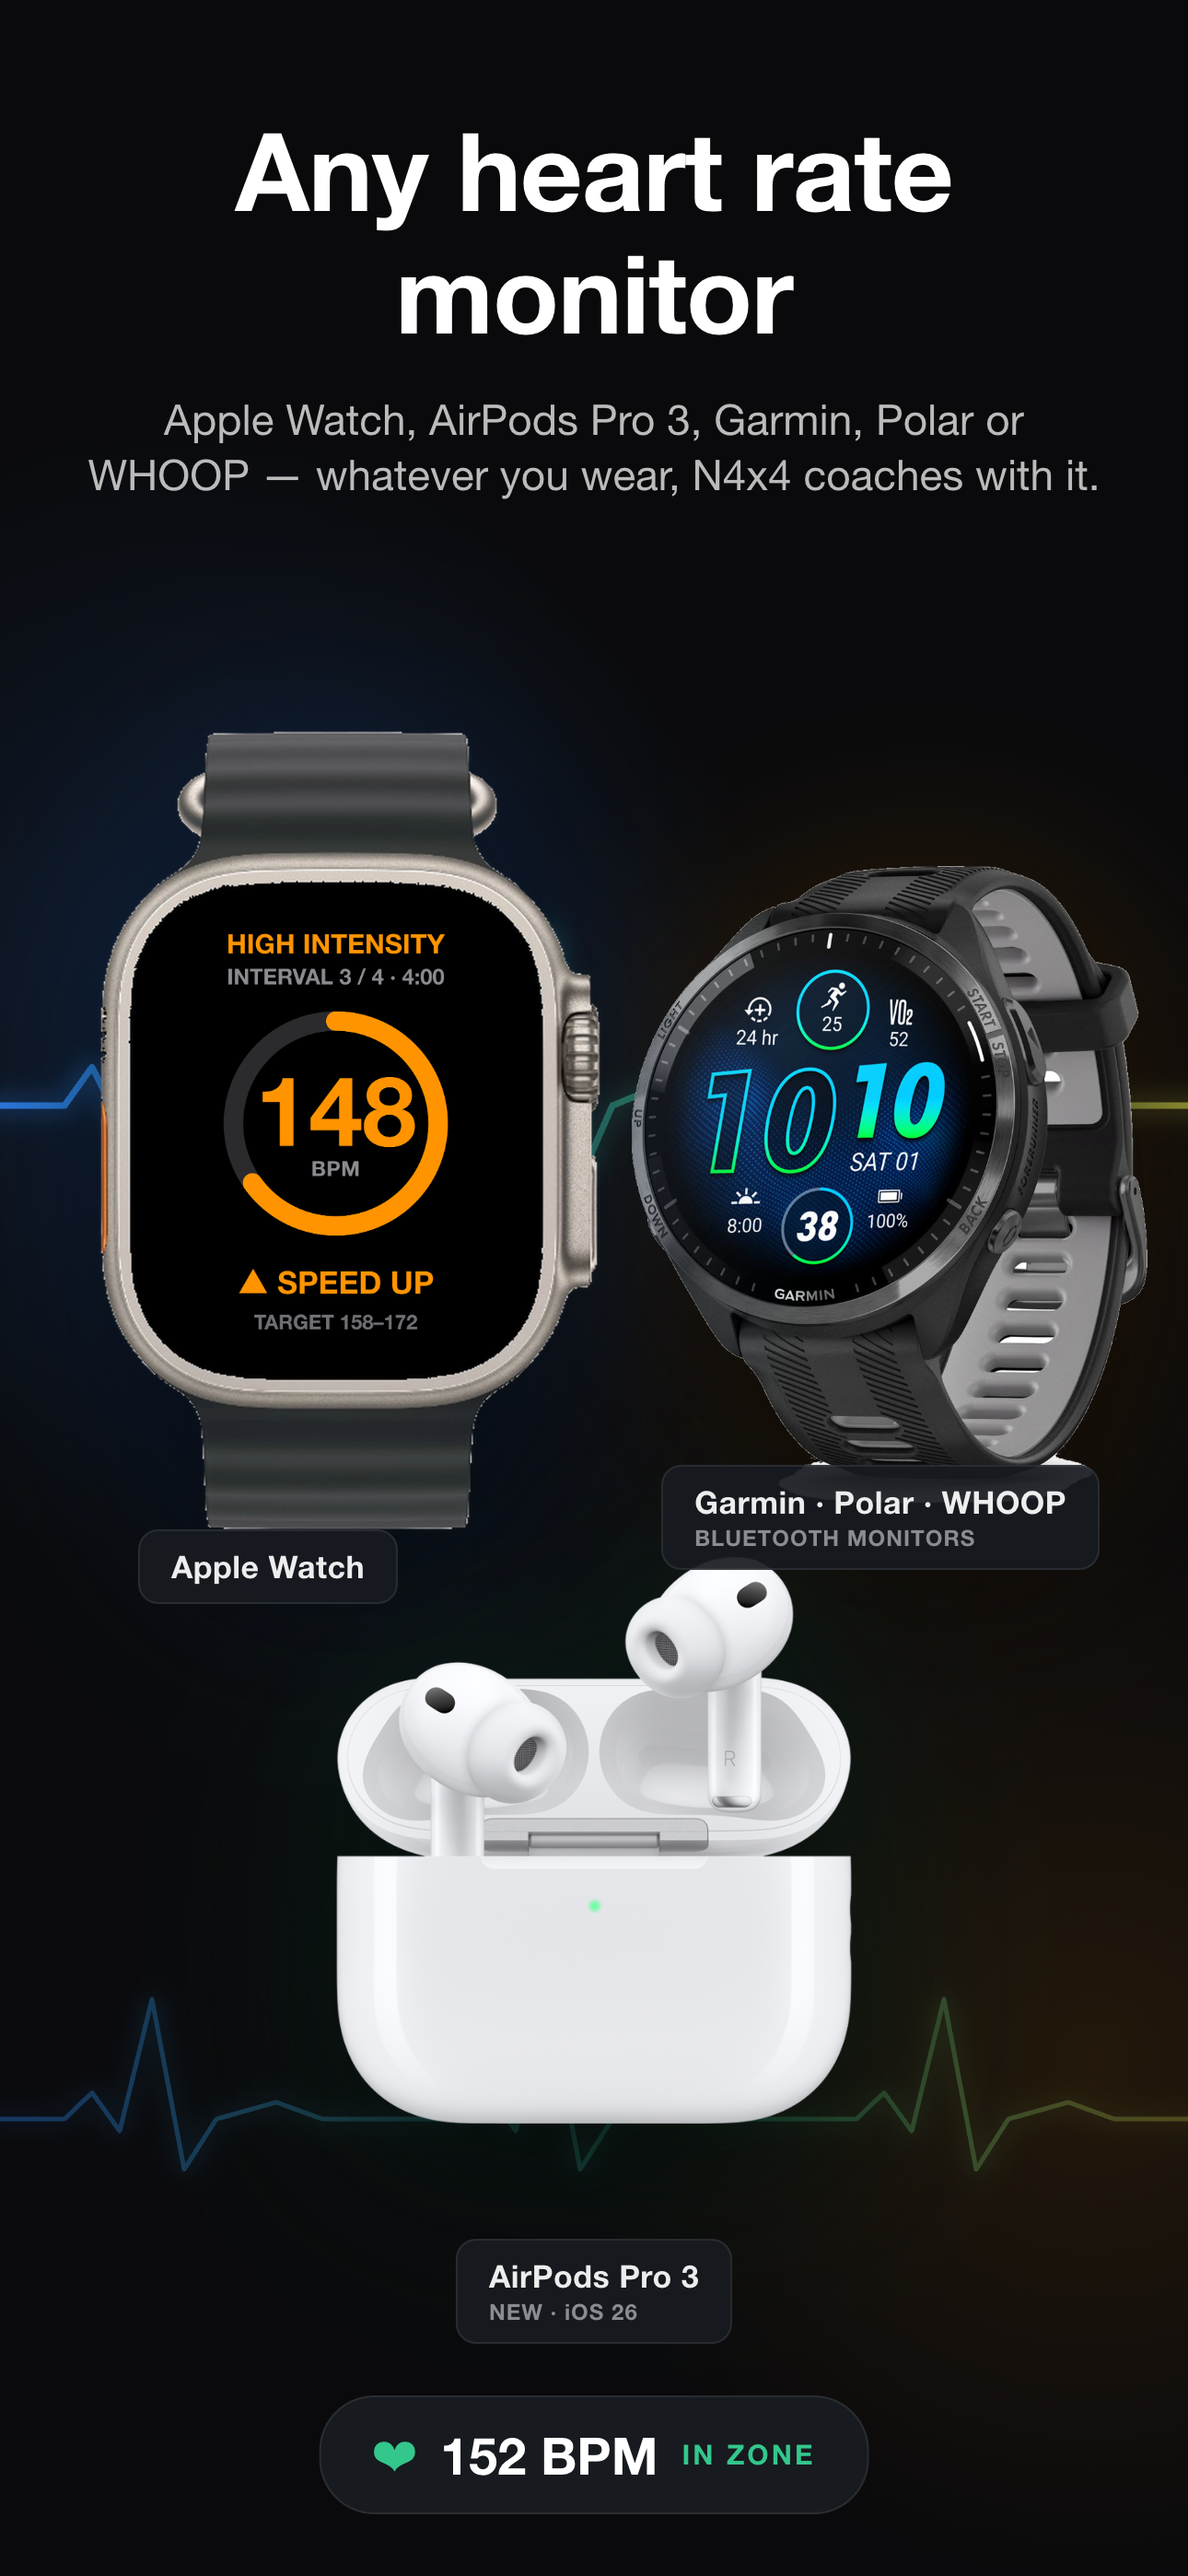
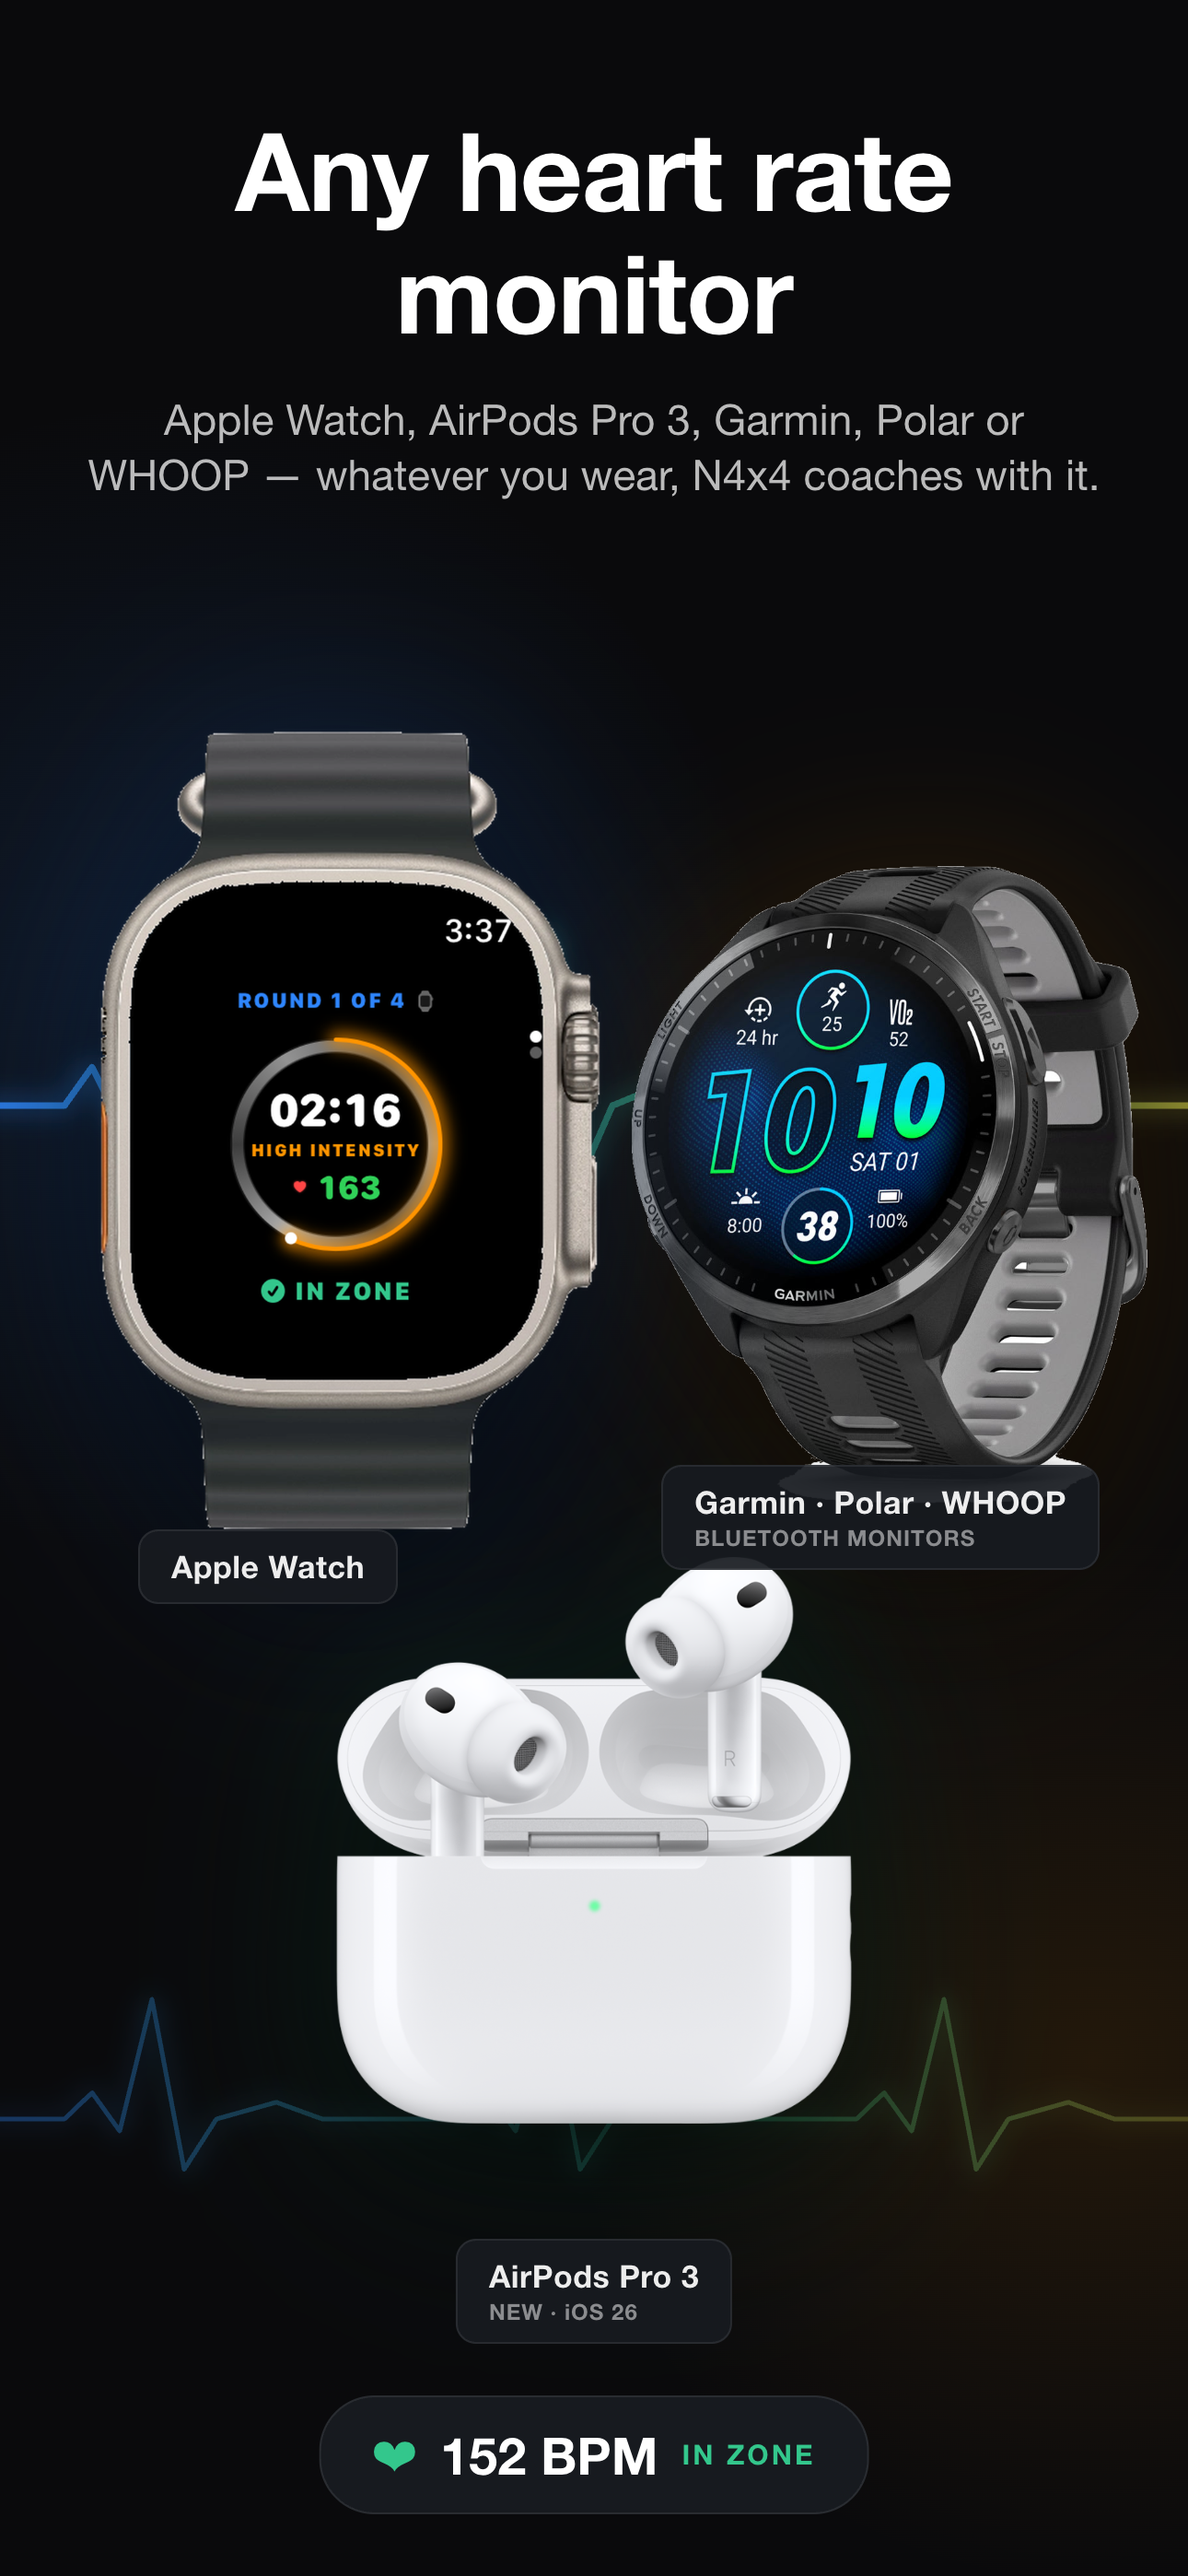
App Store: real Watch screenshots (5.0 UI) for every watch slot; framed card from live capture

Changed region(s): [[0.186, 0.3423, 0.4341, 0.529]]

diff --git a/AppStore/make-watch-store-set.py b/AppStore/make-watch-store-set.py
@@ -1,0 +1,59 @@
+#!/usr/bin/env python3
+"""Build the App Store *Apple Watch* screenshot set from real Simulator captures.
+
+Apple's watch slots take the raw screen only — no device frame, no caption
+text — so this script does exactly three things: fits each capture to the
+accepted slot size (letterboxing on black where the aspect differs by a hair),
+strips the alpha channel, and writes one numbered set per slot.
+
+    python3 AppStore/make-watch-store-set.py <raw-dir>
+
+<raw-dir> holds `<device>-<state>.png` captures from `simctl io screenshot`
+with the app launched via `-demoState <state>` (see AGENTS.md):
+  ultra3-*.png  422×514  (Apple Watch Ultra 3 simulator)  → 410×502 slot
+  s11-46-*.png  416×496  (Series 11 46 mm)                → 416×496 and 396×484 slots
+  se-44-*.png   368×448  (SE 44 mm)                       → 368×448 slot
+
+Requires Pillow.
+"""
+import os, sys
+from PIL import Image
+
+HERE = os.path.dirname(os.path.abspath(__file__))
+OUT = os.path.join(HERE, "watch-screenshots")
+RAW = sys.argv[1] if len(sys.argv) > 1 else os.path.join(HERE, "raw-watch")
+
+# Upload order: the workout face first (it's what the listing leads with).
+SHOTS = [("01-workout", "local"), ("02-home", "offline"),
+         ("03-controls", "controls"), ("04-complete", "localComplete")]
+
+# slot folder → (source device prefix, target size)
+SLOTS = {
+    "ultra-410x502":    ("ultra3", (410, 502)),   # Ultra / Ultra 2 / Ultra 3 — the required upload
+    "series11-416x496": ("s11-46", (416, 496)),   # Series 10 / 11
+    "45mm-396x484":     ("s11-46", (396, 484)),   # Series 7–9
+    "44mm-368x448":     ("se-44",  (368, 448)),   # Series 4–6 / SE
+}
+
+def fit_on_black(img, size):
+    """Scale to fit inside `size`, centre on pure black, no alpha."""
+    tw, th = size
+    img = img.convert("RGB")
+    scale = min(tw / img.width, th / img.height)
+    w, h = round(img.width * scale), round(img.height * scale)
+    img = img.resize((w, h), Image.LANCZOS)
+    canvas = Image.new("RGB", (tw, th), (0, 0, 0))
+    canvas.paste(img, ((tw - w) // 2, (th - h) // 2))
+    return canvas
+
+for folder, (device, size) in SLOTS.items():
+    dest = os.path.join(OUT, folder)
+    os.makedirs(dest, exist_ok=True)
+    for name, state in SHOTS:
+        src = os.path.join(RAW, f"{device}-{state}.png")
+        if not os.path.exists(src):
+            sys.exit(f"missing capture {src}")
+        out = fit_on_black(Image.open(src), size)
+        path = os.path.join(dest, f"{name}.png")
+        out.save(path, optimize=True)
+        print(f"{path}  {out.size[0]}x{out.size[1]}  mode={out.mode}")

diff --git a/AppStore/make-framed-watch.py b/AppStore/make-framed-watch.py
@@ -8,8 +8,15 @@ Fixes two defects in the previous build:
   screen opening.
 
 Approach: flood-fill the transparent screen opening of the frame to get an
-exact mask, clip the freshly rendered face to that mask, then composite the
-frame on top.
+exact mask, clip the face to that mask, then composite the frame on top.
+
+The face is a real Simulator capture when one is given (preferred — the
+advertised watch then IS the shipped UI):
+
+    python3 AppStore/make-framed-watch.py path/to/ultra3-local.png
+
+With no argument it falls back to rendering make-watch-face.html in headless
+Chrome (the pre-5.0 mockup path).
 """
 import os, subprocess, sys, tempfile
 from collections import deque
@@ -57,15 +64,24 @@ bx, by, bx2, by2 = bb
 bw, bh = bx2 - bx, by2 - by
 print(f"opening at {TW}x{TH}: x {bx}-{bx2}, y {by}-{by2} ({bw}x{bh})")
 
-# Render the face at 2x the opening size (scale factor 2 keeps the window above
-# headless Chrome's ~500px minimum, so vw units resolve correctly), then downsample.
-face_png = os.path.join(SCRATCH, "face-render.png")
-subprocess.run([
-    CHROME, "--headless=new", f"--screenshot={face_png}",
-    f"--window-size={bw*2},{bh*2}", "--hide-scrollbars",
-    "--force-device-scale-factor=2", f"file://{FACE_HTML}",
-], check=True, capture_output=True)
-face = Image.open(face_png).convert("RGBA").resize((bw, bh), Image.LANCZOS)
+if len(sys.argv) > 1:
+    # Real capture: scale to COVER the opening (the Ultra opening and the
+    # 422x514 Ultra 3 capture differ in aspect by well under 1%), centre-crop.
+    src = Image.open(sys.argv[1]).convert("RGBA")
+    scale = max(bw / src.width, bh / src.height)
+    sw, sh = round(src.width * scale), round(src.height * scale)
+    src = src.resize((sw, sh), Image.LANCZOS)
+    face = src.crop(((sw - bw) // 2, (sh - bh) // 2, (sw - bw) // 2 + bw, (sh - bh) // 2 + bh))
+else:
+    # Render the face at 2x the opening size (scale factor 2 keeps the window above
+    # headless Chrome's ~500px minimum, so vw units resolve correctly), then downsample.
+    face_png = os.path.join(SCRATCH, "face-render.png")
+    subprocess.run([
+        CHROME, "--headless=new", f"--screenshot={face_png}",
+        f"--window-size={bw*2},{bh*2}", "--hide-scrollbars",
+        "--force-device-scale-factor=2", f"file://{FACE_HTML}",
+    ], check=True, capture_output=True)
+    face = Image.open(face_png).convert("RGBA").resize((bw, bh), Image.LANCZOS)
 
 # Face layer clipped to the exact opening, frame composited on top
 layer = Image.new("RGBA", (TW, TH), (0, 0, 0, 0))

diff --git a/AppStore/make-watch-screenshot.py b/AppStore/make-watch-screenshot.py
@@ -46,8 +46,8 @@ def ctext(y, txt, f, fill):
 
 ctext(178, "Your Apple Watch,", hf, (255, 255, 255))
 ctext(272, "your coach.", hf, (255, 255, 255))
-ctext(382, "Heart rate streams live from your wrist,", sf, (168, 168, 176))
-ctext(432, "with real-time speed-up cues.", sf, (168, 168, 176))
+ctext(382, "Live heart rate and zone cues on your wrist.", sf, (168, 168, 176))
+ctext(432, "Runs on its own when your iPhone isn't around.", sf, (168, 168, 176))
 
 w = Image.open(WATCH).convert("RGBA")
 tw = 1040

diff --git a/AppStore/README.md b/AppStore/README.md
@@ -59,46 +59,56 @@ white outline read as a generic Android. The frame lives in CSS in
 - `watch-ultra-framed.png` — ours (see frame provenance below); its composited
   screen corners were rounded in 4.7 to follow the case curve.
 
-## `watch-screenshots/` — Apple Watch slot (required)
+## `watch-screenshots/` — Apple Watch slots (required)
 
 Because the binary includes a watchOS app, App Store Connect requires at least
-one Apple Watch screenshot. These are the raw watch screen (no device frame),
-rendered to match the real `WatchTimerView` UI. Upload
-**`watch-ultra-410x502.png`** — per Apple's screenshot specifications
-(checked 2026-07-22), 410×502 is the accepted size for Ultra 1/2/**and 3**
-(the Ultra 3's physical 422×514 resolution is NOT an accepted upload size;
-`watch-ultra3-422x514.png` is kept only in case ASC adds the slot).
+one Apple Watch screenshot. **Apple's watch slots take the raw screen only —
+no device frame and no caption/marketing text** (that lives on the phone card
+`03-watch.png` instead). Since 5.0 these are real Simulator captures of the
+shipped UI, not HTML mockups, so the listing can't drift from the app.
 
-Regenerate from `make-watch-screen.html` (headless Chrome, one render per size).
-**Render at 2× and downsample** — Chrome's new headless mode clamps the window
-to ~500×500 minimum, so a 1× render at these sizes lays out for a 500px
-viewport and crops it, pushing everything off-centre:
+One numbered set per slot; upload the **`ultra-410x502/`** set (per Apple's
+specifications, checked 2026-07-22, 410×502 is the accepted size for Ultra
+1/2/3 — the Ultra 3's physical 422×514 is not an upload size). The other
+folders exist for the optional per-size slots.
+
+| Folder | Size | ASC slot |
+|--------|------|----------|
+| `ultra-410x502/` | 410×502 | Ultra / Ultra 2 / Ultra 3 — **upload this one** |
+| `series11-416x496/` | 416×496 | Series 10 / 11 |
+| `45mm-396x484/` | 396×484 | Series 7–9 |
+| `44mm-368x448/` | 368×448 | Series 4–6 / SE |
+
+| File | Shows |
+|------|-------|
+| `01-workout.png` | Work interval: countdown ring, in-zone HR, IN ZONE cue (Watch-led) |
+| `02-home.png` | Home: streak, START ring, plan bar, "No iPhone · runs on Watch" |
+| `03-controls.png` | Controls page: timeline, PAUSE / SKIP / END |
+| `04-complete.png` | Watch-led completion with sync status |
+
+Regenerate: capture each demo state on the Ultra 3, Series 11 46 mm and SE
+44 mm simulators, then fit them to the slots (letterboxed on black where the
+aspect differs by a hair; alpha stripped):
 
 ```
-cd AppStore
-CHROME="/Applications/Google Chrome.app/Contents/MacOS/Google Chrome"
-for s in watch-44mm-368x448:368:448 watch-45mm-396x484:396:484 \
-         watch-series11-416x496:416:496 watch-ultra-410x502:410:502 \
-         watch-ultra3-422x514:422:514; do
-  IFS=: read name w h <<< "$s"
-  "$CHROME" --headless=new --screenshot="watch-screenshots/$name.png" \
-    --window-size=$((w*2)),$((h*2)) --hide-scrollbars --force-device-scale-factor=2 \
-    "file://$(pwd)/make-watch-screen.html"
-  sips -z $h $w "watch-screenshots/$name.png" --out "watch-screenshots/$name.png"
-done
+export DEVELOPER_DIR=/Applications/Xcode.app/Contents/Developer
+BID=Jan-van-Rensburg.N4x4.watchkitapp
+# for each <device>:<udid> in ultra3 / s11-46 / se-44, and each state in
+# local controls offline localComplete:
+xcrun simctl launch <udid> $BID -demoState <state>; sleep 4
+xcrun simctl io <udid> screenshot raw/<device>-<state>.png
+python3 AppStore/make-watch-store-set.py raw/
 ```
 
-The face shows a below-zone reading (148 in a 158–172 zone), so the orange
-number and the "Speed Up" cue agree with each other and with the app's live
-zone colouring. Keep it in sync with `WatchTimerView` and the website mockup.
+The simulator clock shows the real time; Apple does not require 9:41 on
+watch screenshots.
 
-| File | Size | ASC slot |
-|------|------|----------|
-| `watch-ultra-410x502.png` | 410×502 | Ultra / Ultra 2 / Ultra 3 — **upload this one** |
-| `watch-series11-416x496.png` | 416×496 | Series 10 / 11 |
-| `watch-45mm-396x484.png` | 396×484 | Series 7–9 |
-| `watch-44mm-368x448.png` | 368×448 | Series 4–6 / SE |
-| `watch-ultra3-422x514.png` | 422×514 | ⚠ no ASC slot accepts this size (kept speculatively) |
+## Regenerating the framed watch (`assets/watch-ultra-framed.png`)
+
+```
+python3 AppStore/make-framed-watch.py raw/ultra3-local.png   # real capture (5.0+)
+python3 AppStore/make-framed-watch.py                        # legacy: HTML face
+```
 
 ## `assets/` — reusable source
 
@@ -118,7 +128,7 @@ the real app UI match** — keep them in sync (see
 ## Regenerating `03-watch.png`
 
 ```
-python3 AppStore/make-framed-watch.py    # only if the face changed
+python3 AppStore/make-framed-watch.py raw/ultra3-local.png   # only if the face changed
 python3 AppStore/make-watch-screenshot.py
 sips -z 2778 1284 AppStore/screenshots/03-watch.png \
   --out AppStore/screenshots/6.7in/03-watch.png
